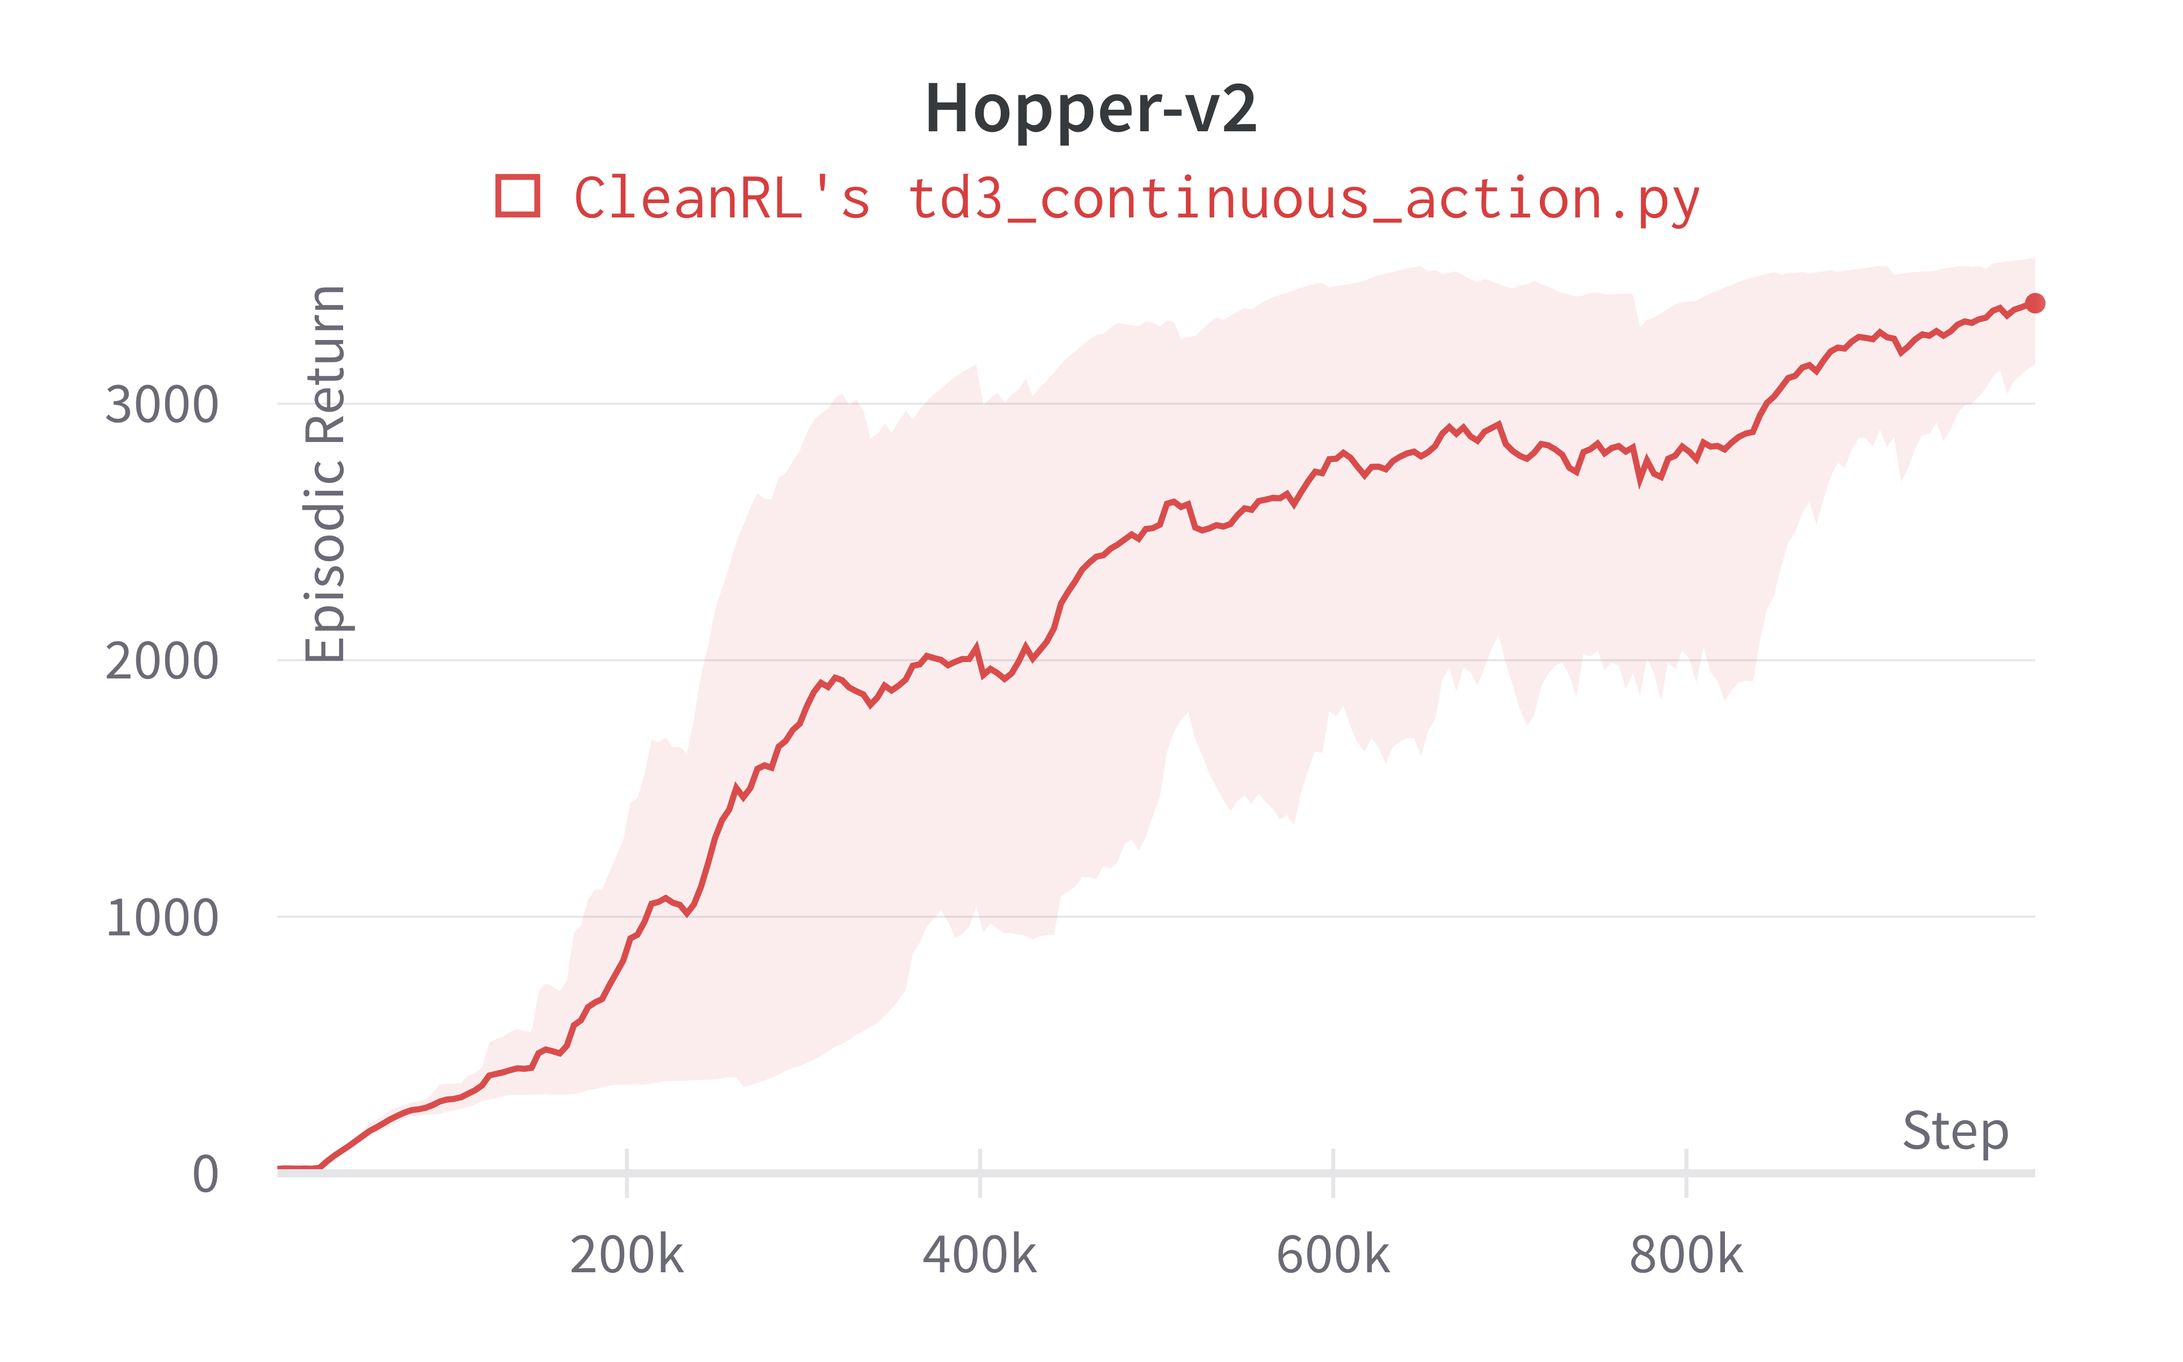
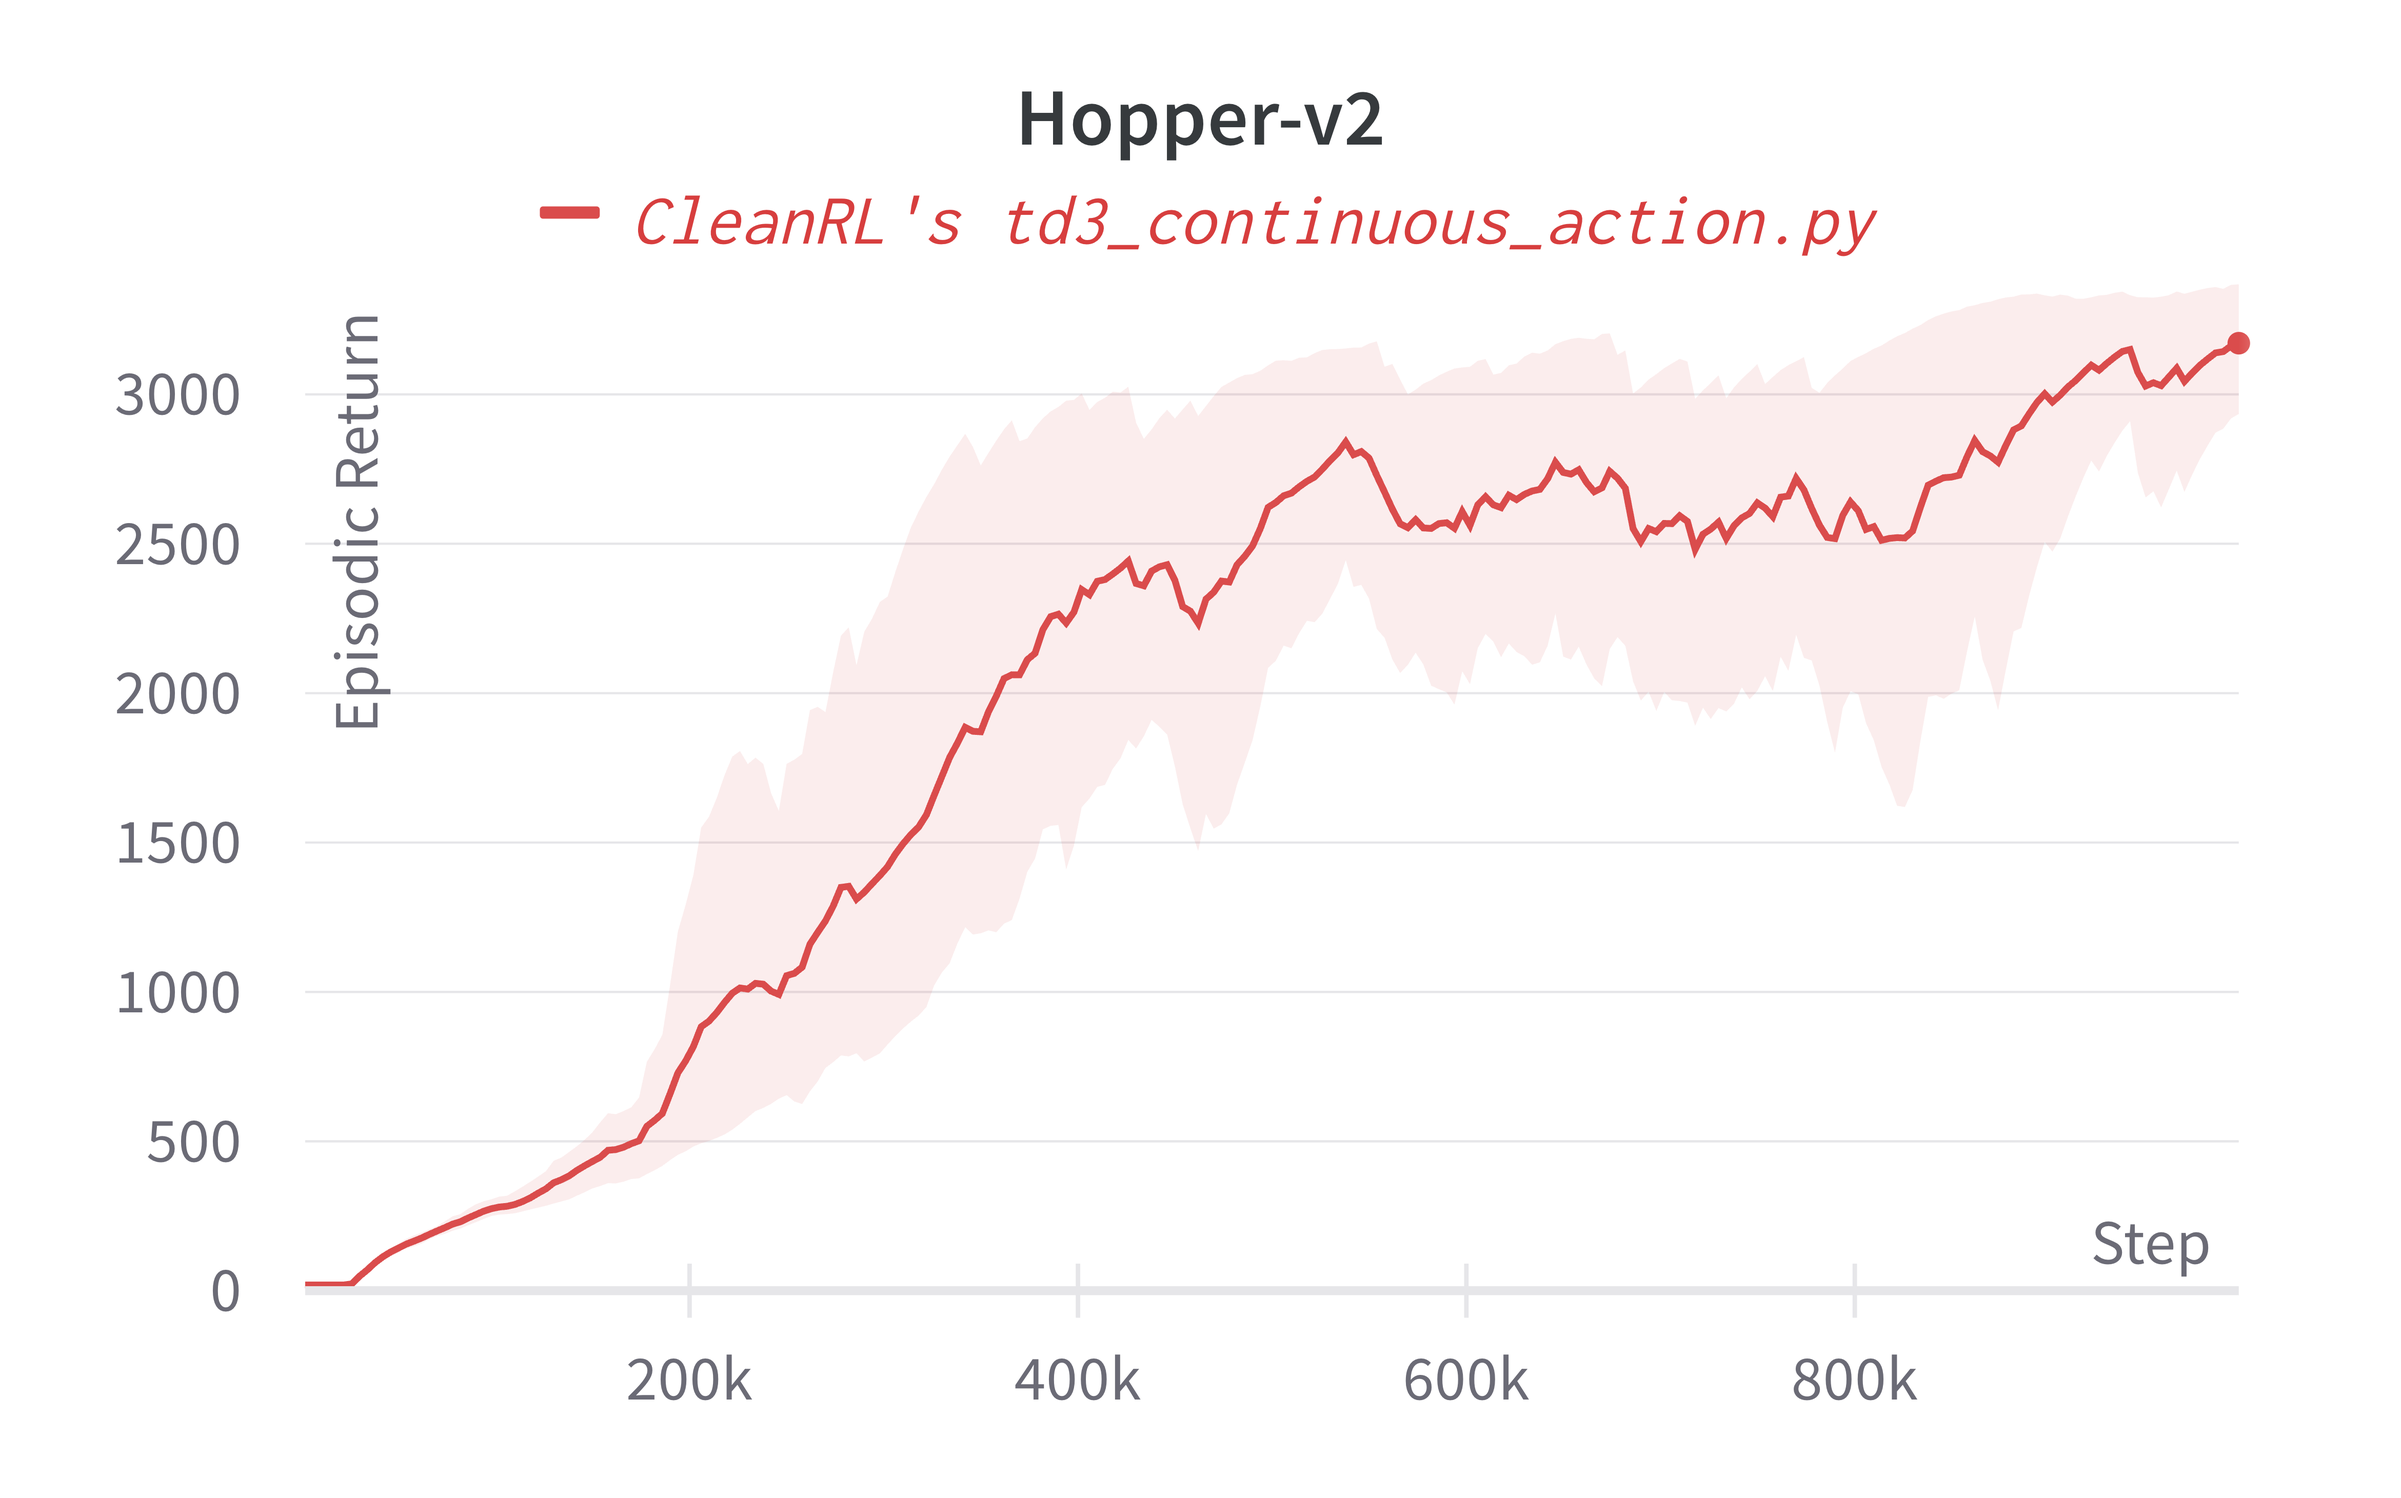
update results

diff --git a/docs/rl-algorithms/td3.md b/docs/rl-algorithms/td3.md
@@ -123,12 +123,12 @@ Below are the average episodic returns for [`td3_continuous_action.py`](https://
 
 | Environment      | [`td3_continuous_action.py`](https://github.com/vwxyzjn/cleanrl/blob/master/cleanrl/td3_continuous_action.py) | [`TD3.py`](https://github.com/sfujim/TD3/blob/master/TD3.py) (Fujimoto et al., 2018, Table 1)[^2]  |
 | ----------- | ----------- | ----------- | 
-| HalfCheetah      | 9018.31 ± 1078.31      |9636.95 ± 859.065  |
-| Walker2d   | 4246.07 ± 1210.84     |  4682.82 ± 539.64 | 
-| Hopper   | 3391.78 ± 232.21        |  3564.07 ± 114.74 | 
-| Humanoid |  4822.64 ± 321.85      |  not available | 
-| Pusher |  -42.24 ± 6.74      |  not available | 
-| InvertedPendulum |    964.59 ± 43.91    | 1000.00 ± 0.00  | 
+| HalfCheetah      | 9449.94 ± 1586.49      |9636.95 ± 859.065  |
+| Walker2d   | 3851.55 ± 335.29     |  4682.82 ± 539.64 | 
+| Hopper   | 3162.21 ± 261.08        |  3564.07 ± 114.74 | 
+| Humanoid |  5011.05 ± 254.89      |  not available | 
+| Pusher |  -37.49 ± 10.22      |  not available | 
+| InvertedPendulum |    996.81 ± 4.50    | 1000.00 ± 0.00  | 
 
 
 
